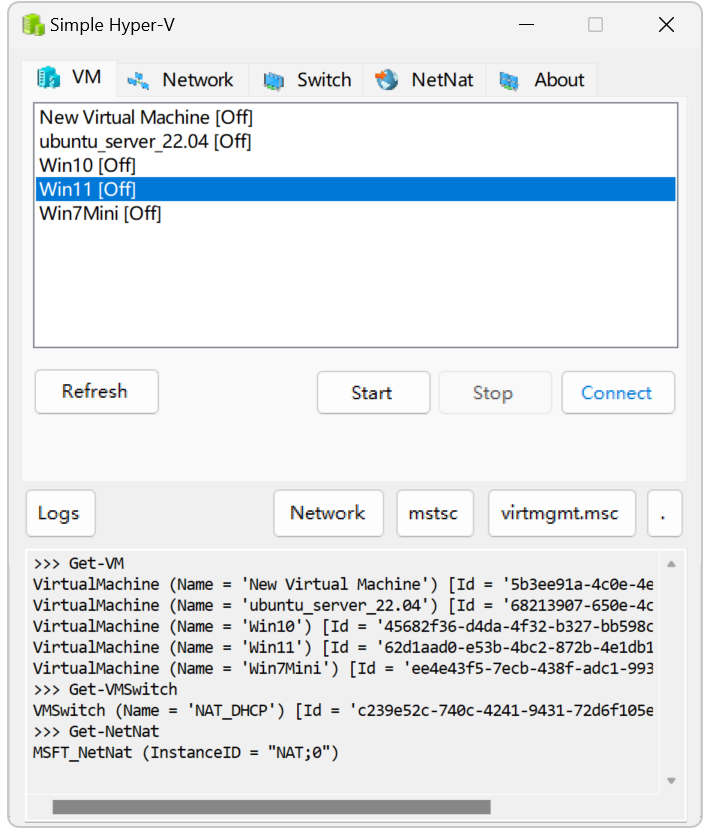
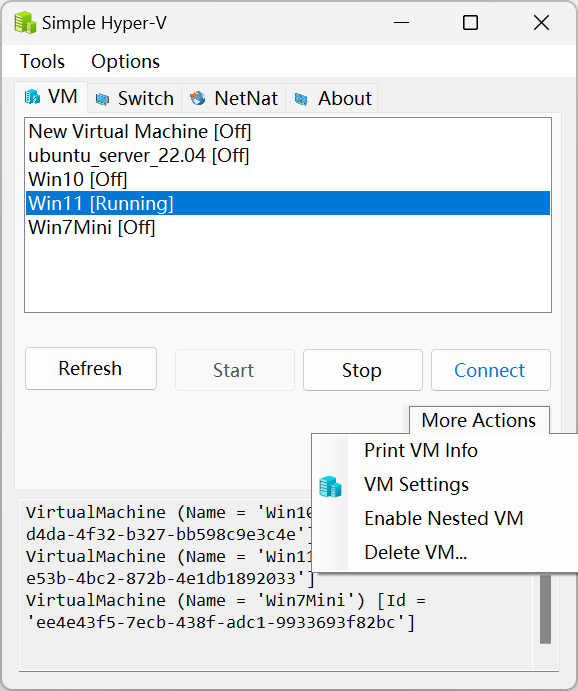
update

diff --git a/simple-hyperv/WindowsFormsApp1/Form1.cs b/simple-hyperv/WindowsFormsApp1/Form1.cs
@@ -189,6 +189,7 @@ namespace SimpleHyperVForm1
             textBoxOutput.Visible = Settings.Default.ShowLogs;
 
             closeToTrayToolStripMenuItem.Checked = Settings.Default.CloseToTray;
+            autoStartupToolStripMenuItem.Checked = Settings.Default.AutoStartup;
         }
         private void richTextBox1_LinkClicked(object sender, LinkClickedEventArgs e)
         {

diff --git a/README.md b/README.md
@@ -12,7 +12,8 @@ Red Alert Launcher Tools (2023)
 
 ## Simple Hyper-V 管理器
 
-解决了 Hyper-V 官方管理器启动过慢的问题
+解决 Hyper-V 启动过慢的问题，并增加一些 GUI 管理实用工具。
+
 ![img](screenshot-vm.png)
 
 ## HelloWorld
